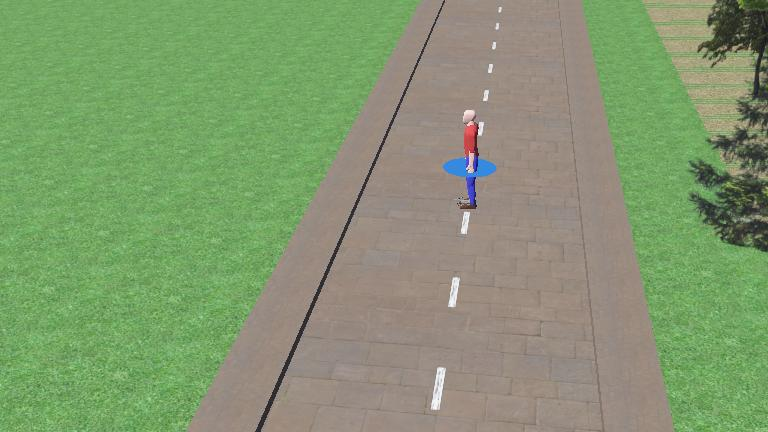
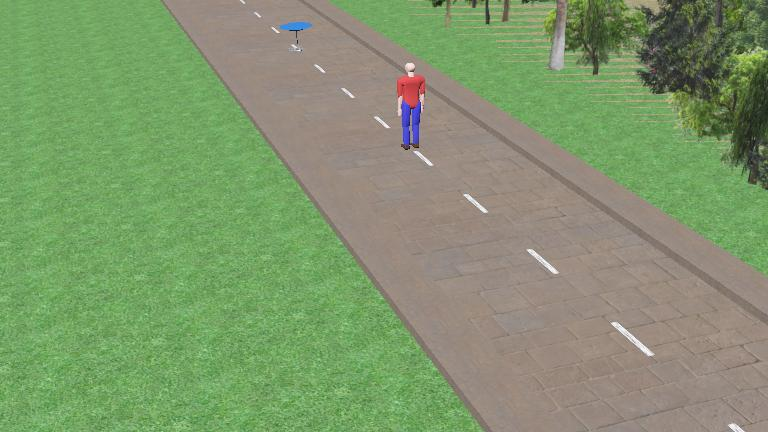
feat: ajout du balayage 360 et du support double camera

diff --git a/controllers/drone_controller/drone_controller.py b/controllers/drone_controller/drone_controller.py
@@ -31,9 +31,10 @@ class DroneParapluie(Supervisor):
 
     # Phases de vol
     PHASE_TAKEOFF  = 0   # Décollage PID depuis le sol
-    PHASE_SCAN     = 1   # Monte haut pour voir la personne entière
-    PHASE_DESCEND  = 2   # Descend près de la tête
-    PHASE_FOLLOW   = 3   # Suivi synchronisé, piéton marche
+    PHASE_SEARCH   = 1   # Cherche sans bouger (hover)
+    PHASE_APPROACH = 2   # Cible vue ! Vol vers la cible
+    PHASE_DESCEND  = 3   # Descend près de la tête
+    PHASE_FOLLOW   = 4   # Suivi synchronisé, piéton marche
 
     SCAN_ALT       = 2.8  # Altitude de scan (voir personne entière)
     FOLLOW_ALT     = 2.0  # Altitude de suivi (près de la tête)
@@ -44,7 +45,23 @@ class DroneParapluie(Supervisor):
         Supervisor.__init__(self)
         self.time_step = int(self.getBasicTimeStep())
 
-        self.camera = self.getDevice("camera"); self.camera.enable(self.time_step)
+        self.camera_search = self.getDevice("camera")
+        if not self.camera_search:
+            print(">>> ERROR: 'camera' not found. Available devices:")
+            for i in range(self.getNumberOfDevices()):
+                print(f" - {self.getDeviceByIndex(i).getName()}")
+            sys.exit(1)
+            
+        self.camera_search.enable(self.time_step)
+        
+        self.camera_track = self.getDevice("track_camera")
+        if self.camera_track:
+            self.camera_track.enable(self.time_step)
+        else:
+            self.camera_track = self.camera_search
+
+        self.camera = self.camera_search # On démarre avec la caméra avant
+
         self.imu    = self.getDevice("inertial unit"); self.imu.enable(self.time_step)
         self.gps    = self.getDevice("gps"); self.gps.enable(self.time_step)
         self.gyro   = self.getDevice("gyro"); self.gyro.enable(self.time_step)
@@ -63,6 +80,7 @@ class DroneParapluie(Supervisor):
 
         self.drone_node  = self.getSelf()
         self.drone_trans = self.drone_node.getField("translation")
+        self.drone_rot_field = self.drone_node.getField("rotation")
         self.pedestrian  = self.getFromDef("PEDESTRIAN")
 
         self.target_altitude = self.SCAN_ALT  # D'abord monter au scan
@@ -70,6 +88,7 @@ class DroneParapluie(Supervisor):
         self.det_count = 0
         self.step_count = 0
         self.descend_count = 0
+        self.search_yaw = 0.0
 
         if HAS_VISION:
             print("Chargement YOLOv8n...")
@@ -158,8 +177,8 @@ class DroneParapluie(Supervisor):
             # ═══ PHASE 1 : DÉCOLLAGE (PID) ═══
             if self.phase == self.PHASE_TAKEOFF:
                 if z > self.SCAN_ALT - 0.5:
-                    self.phase = self.PHASE_SCAN
-                    print("Phase 2 : Altitude SCAN atteinte — recherche personne...")
+                    self.phase = self.PHASE_SEARCH
+                    print("Phase 2 : Altitude de recherche atteinte — je cherche la cible...")
 
                 alt_err = max(min(self.SCAN_ALT - z + self.K_VERTICAL_OFFSET, 1), -1)
                 vert = self.K_VERTICAL_P * pow(alt_err, 3.0)
@@ -171,28 +190,54 @@ class DroneParapluie(Supervisor):
                 self.m_rr.setVelocity(  self.K_VERTICAL_THRUST + vert - pi + ri)
                 continue
 
-            # ═══ PHASE 2 : SCAN (altitude haute, voir personne entière) ═══
-            elif self.phase == self.PHASE_SCAN:
-                ped = self.get_ped_pos()
-                self.move_above(ped, self.SCAN_ALT)
+            # ═══ PHASE 2 : RECHERCHE (Vol stationnaire + Scan 360) ═══
+            elif self.phase == self.PHASE_SEARCH:
+                self.camera = self.camera_search # Utilise la caméra avant
+                # Regarde devant et légèrement vers le bas pour voir loin (-0.5 max)
+                self.getDevice("camera pitch").setPosition(-0.3)
+                
+                # Tourne sur lui-même lentement (Scan 360°)
+                self.search_yaw += 0.02
+                self.drone_rot_field.setSFRotation([0, 0, 1, self.search_yaw])
+
+                # Maintien de la position X,Y au niveau SCAN_ALT
+                cur_pos = self.drone_trans.getSFVec3f()
+                self.move_above(cur_pos, self.SCAN_ALT)
                 self.set_hover()
 
                 # Détection de la personne complète
                 if self.step_count % 10 == 0:
-                    if self.detect_red_fast():
+                    yolo_ok, red_ok = self.detect_full()
+                    if yolo_ok or red_ok:
                         self.det_count += 1
-                    if self.step_count % 15 == 0:
-                        yolo_ok, red_ok = self.detect_full()
-                        if yolo_ok:
-                            self.det_count += 2
+                        if self.det_count >= 2:
+                            self.phase = self.PHASE_APPROACH
+                            print(">>> PERSONNE DÉTECTÉE ! Je m'approche...")
+                    else:
+                        self.det_count = 0
 
-                    if self.det_count >= 2:
-                        self.phase = self.PHASE_DESCEND
-                        self.descend_count = 0
-                        print(">>> PERSONNE DÉTECTÉE en entier ! Descente vers la tête...")
+            # ═══ PHASE 3 : APPROCHE (Vers la cible détectée) ═══
+            elif self.phase == self.PHASE_APPROACH:
+                ped = self.get_ped_pos()
+                cur_pos = self.drone_trans.getSFVec3f()
+                
+                # Orientation de la face avant du drone vers la personne
+                target_yaw = math.atan2(ped[1] - cur_pos[1], ped[0] - cur_pos[0])
+                self.drone_rot_field.setSFRotation([0, 0, 1, target_yaw])
 
-            # ═══ PHASE 3 : DESCENTE (vers altitude de suivi près de la tête) ═══
+                dist = self.move_above(ped, self.SCAN_ALT, alpha=0.03) # Vol lent vers lui
+                self.set_hover()
+
+                if dist < 0.4:
+                    self.phase = self.PHASE_DESCEND
+                    self.descend_count = 0
+                    print(">>> Au-dessus de la cible ! Descente vers la tête...")
+
+            # ═══ PHASE 4 : DESCENTE (vers altitude de suivi près de la tête) ═══
             elif self.phase == self.PHASE_DESCEND:
+                # Bascule sur la caméra fixe du dessous pour le suivi vertical !
+                self.camera = self.camera_track
+                
                 ped = self.get_ped_pos()
                 self.move_above(ped, self.FOLLOW_ALT, self.DESCEND_ALPHA)
                 self.set_hover()
@@ -207,8 +252,10 @@ class DroneParapluie(Supervisor):
                         print(">>> Position OK ! Piéton MARCHE ! Suivi synchronisé !")
                         print("=" * 55)
 
-            # ═══ PHASE 4 : SUIVI SYNCHRONISÉ ═══
+            # ═══ PHASE 5 : SUIVI SYNCHRONISÉ ═══
             elif self.phase == self.PHASE_FOLLOW:
+                self.camera = self.camera_track # Maintien de la caméra du dessous
+                
                 ped = self.get_ped_pos()
                 dist = self.move_above(ped, self.FOLLOW_ALT)
                 self.set_hover()
